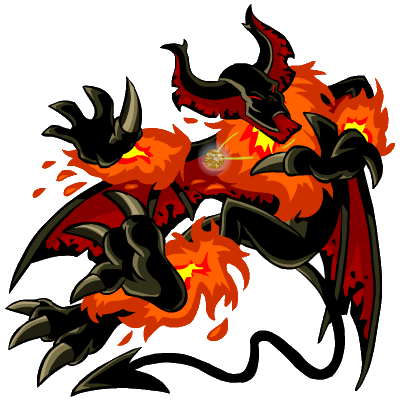
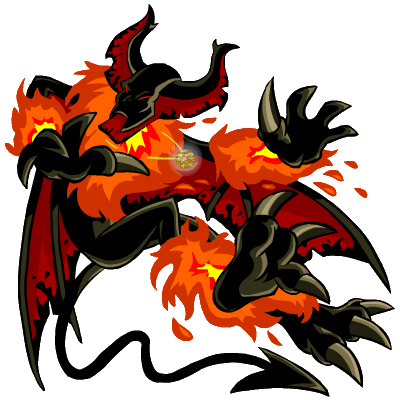
Added mirrored sprites. Fixed exp progress bar.
Made all pet sprites square with transparency.
Added mirrored versions of each sprites.
species.png = player's sprite, faces right
species_enemy.png = enemy's sprite, faces left
Updated battle_view to use these mirrored sprites
Updated pet_viewer_view to fix exp bar

diff --git a/templates/battle_view.php b/templates/battle_view.php
@@ -128,7 +128,7 @@
 
 	<section class="battlefield">
 		<img src=<?php echo "images/species/". $user_Pet->getSpecies()->getSpecies() . ".png"; ?> width="350" height="350" alt="<?php echo $user_Pet->getSpecies()->getSpecies(); ?>" style="position: absolute; top: 70px; left: 300px;" />
-		<img src=<?php echo "images/species/". $enemy_Pet->getSpecies()->getSpecies() . ".png"; ?> width="350" height="350" alt="<?php echo $enemy_Pet->getSpecies()->getSpecies(); ?>" style="position: relative; top: 70px; left: 200px;" />
+		<img src=<?php echo "images/species/". $enemy_Pet->getSpecies()->getSpecies() . "_enemy.png"; ?> width="350" height="350" alt="<?php echo $enemy_Pet->getSpecies()->getSpecies(); ?>" style="position: relative; top: 70px; left: 200px;" />
 		<img src="images/field.png" alt="field" style="position: relative; top: 0; left: 0; z-index: -1;" />
 	</section>
 

diff --git a/templates/pet_viewer_view.php b/templates/pet_viewer_view.php
@@ -17,7 +17,7 @@ $edit_mode = isset( $data[ 'edit_mode' ] ) ? $data[ 'edit_mode' ] : null;
 
     <div class="pet-viewer-experience">
       <!--<progress class="experience-bar" value="<?php echo $pet->getExperience(); ?>" max="100"></progress>-->
-      <progress class="experience-bar" value="<?php echo $pet->getExperience(); ?>" max="<?php echo floor(($pet->getExperience() / 100) + 1) * 100; ?> "></progress>
+      <progress class="experience-bar" value="<?php echo ($pet->getExperience()); ?>" max="<?php echo (floor(($pet->getExperience() / 100) + 1) * 100); ?>"></progress>
 
       <p><b>Experience: </b><?php echo $pet->getExperience(); ?>/<?php echo floor(($pet->getExperience() / 100) + 1) * 100; ?></p>
     </div>
